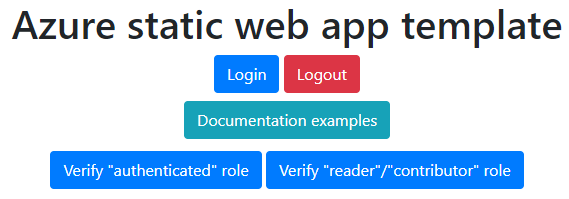
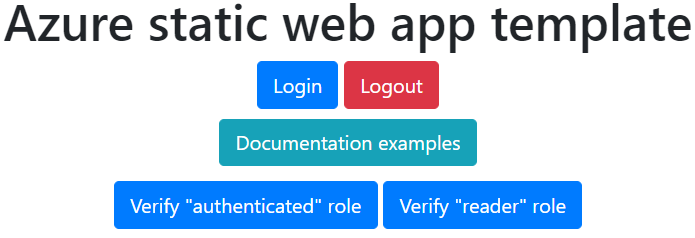
Added an admin-page and some minor cleanup

Changed region(s): [[0.0, 0.0, 1.0, 0.6935], [0.0896, 0.7538, 0.9262, 0.9648], [0.3286, 0.6935, 0.6872, 0.7236]]

diff --git a/docs/build/admin_role.html b/docs/build/admin_role.html
@@ -1,0 +1,20 @@
+<!DOCTYPE html>
+
+<html lang="en">
+  <head>
+    <meta charset="utf-8" />
+
+    <title>Reader role</title>
+    <link
+      rel="stylesheet"
+      href="https://stackpath.bootstrapcdn.com/bootstrap/4.4.1/css/bootstrap.min.css"
+      integrity="sha384-Vkoo8x4CGsO3+Hhxv8T/Q5PaXtkKtu6ug5TOeNV6gBiFeWPGFN9MuhOf23Q9Ifjh"
+      crossorigin="anonymous"
+    />
+  </head>
+
+  <body>
+    <p class="text-center">You have been assigned the "admin" role if you can see this.</p>
+    <div class="d-grid gap-2 col-6 mx-auto text-center my-2">
+        <a href="/index.html" class="btn btn-primary">Back</a>
+    </div>

diff --git a/docs/build/index.html b/docs/build/index.html
@@ -26,6 +26,7 @@
     <div class="d-grid gap-2 col-6 mx-auto text-center my-2">
       <a href="/authenticated_role.html" class="btn btn-primary my-1">Verify "authenticated" role</a>
       <a href="/reader_role.html" class="btn btn-primary my-1">Verify "reader" role</a>
+      <a href="/admin_role.html" class="btn btn-primary my-1">Verify "admin" role</a>
     </div>
   </body>
 </html>

diff --git a/deploy/__main__.py b/deploy/__main__.py
@@ -12,7 +12,7 @@ static_site = azure_native.web.StaticSite(
         api_location="api",
         app_artifact_location="",
         app_location="docs/build",
-        github_action_secret_name_override="DEPLOY_TOKEN",
+        github_action_secret_name_override="DEPLOYMENT_TOKEN",
         skip_github_action_workflow_generation=True,
     ),
     location="West Europe",
